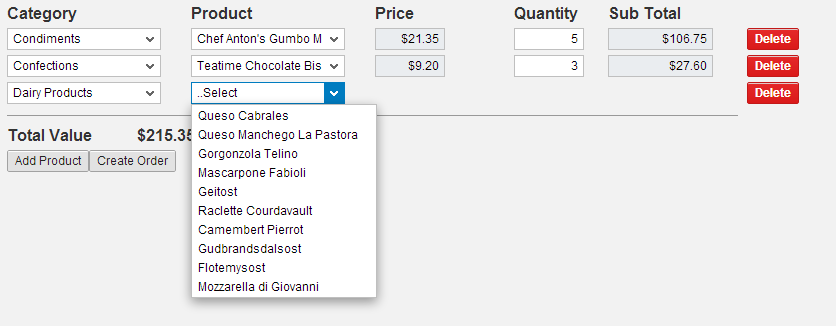
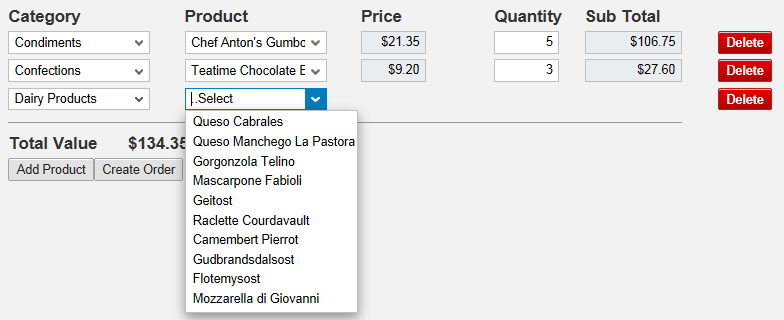
Update total on change
Noticed on one of the pics that the total wasnt working properly on
deletes, small change to fix

Changed region(s): [[0.0, 0.0, 0.4898, 1.0], [0.6122, 0.0, 1.0, 0.3438], [0.4286, 0.0, 0.551, 0.25]]

diff --git a/ODATA_cart/cart/order.controller.js b/ODATA_cart/cart/order.controller.js
@@ -8,7 +8,8 @@ sap.ui.controller("cart.order", {
 		var sUrl = "http://services.odata.org/Northwind/Northwind.svc/",
 			user, pwd;
 		
-		// sUrl = getServiceUrl(sUrl);
+		//proxy
+		//sUrl = getServiceUrl(sUrl);
 
 		if (!this.getView().getModel()) {
 			var oModel = new sap.ui.model.odata.ODataModel(sUrl, true, user, pwd);
@@ -91,6 +92,10 @@ sap.ui.controller("cart.order", {
 		oComboBox2.bindItems("/" + oContext + "/Products",
 				oLITemp, null).setValue("..Select");
 		oComboBox2.setVisible();
+
+		cartline.product ="";
+		cartline.price ="";
+		sap.ui.getCore().byId("tvGrandTotal").setText(my.formatCurrency(my.vm.grandTotal()));
 	},
 
 	onProductChange : function(oEvent) {
@@ -175,6 +180,8 @@ sap.ui.controller("cart.order", {
 		//remove line from layout
 		oLayout.getRows()[line+1].destroyCells();
 		oLayout.removeRow(line+1);
+		//recalculate total
+		sap.ui.getCore().byId("tvGrandTotal").setText(my.formatCurrency(my.vm.grandTotal()));
 	}
 		
 });
